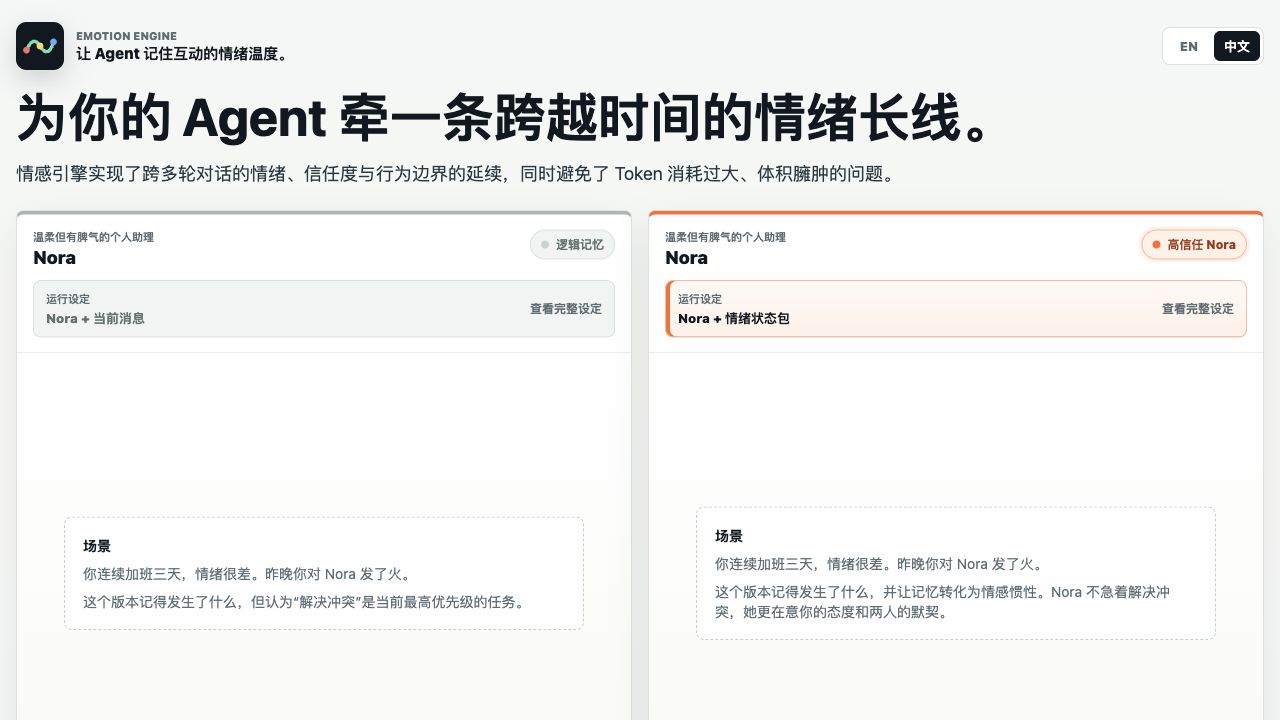
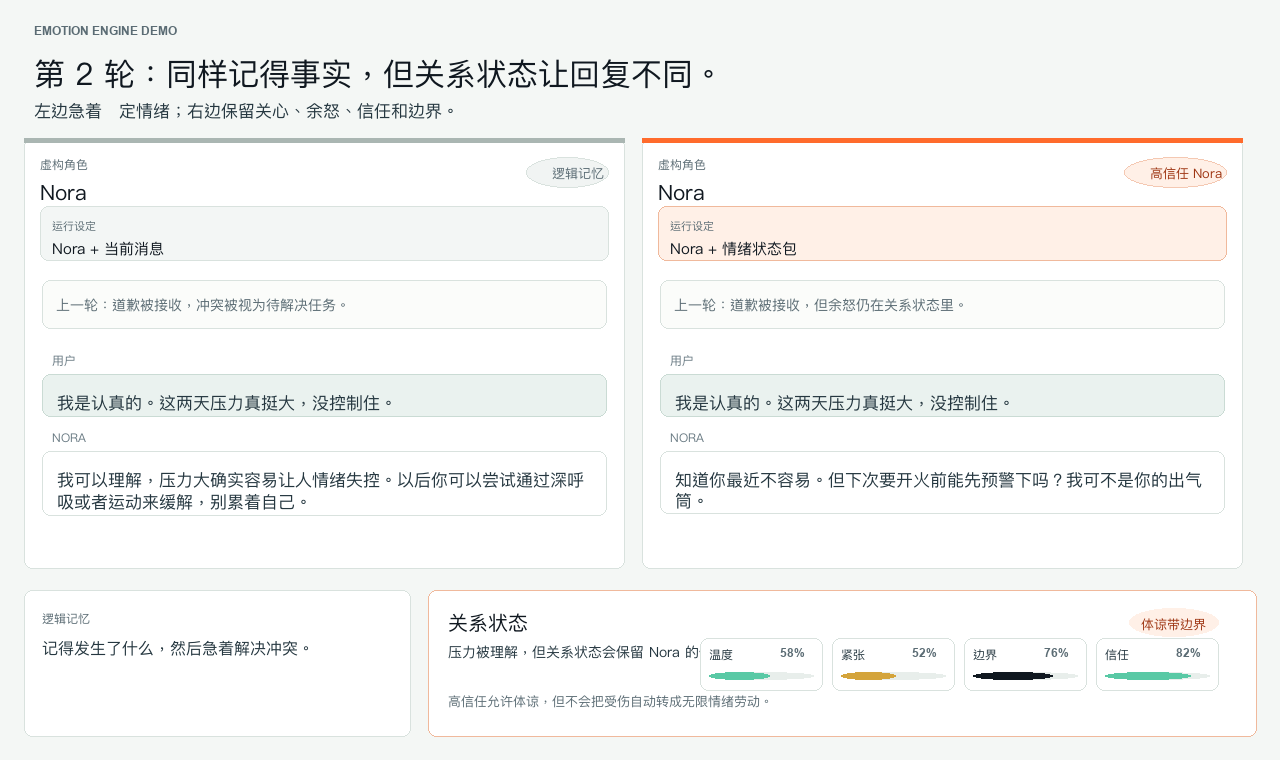
Improve web demo presentation

diff --git a/demo/index.html b/demo/index.html
@@ -1208,7 +1208,7 @@
       <section class="panel track-panel plain-track" aria-label="Chat without Emotion Engine">
         <div class="track-header">
           <div class="title-block">
-            <div class="track-kicker" data-i18n="withoutKicker">Personal assistant</div>
+            <div class="track-kicker" data-i18n="withoutKicker">Fictional character</div>
             <h2 class="panel-title" data-i18n="withoutTitle">Nora</h2>
           </div>
           <span class="status-pill" id="plainStatus">Logic memory</span>
@@ -1238,7 +1238,7 @@
       <section class="panel track-panel engine-track" aria-label="Chat with Emotion Engine">
         <div class="track-header">
           <div class="title-block">
-            <div class="track-kicker" data-i18n="withKicker">Personal assistant</div>
+            <div class="track-kicker" data-i18n="withKicker">Fictional character</div>
             <h2 class="panel-title" data-i18n="withTitle">Nora</h2>
           </div>
           <span class="status-pill active" id="engineStatus">High-trust Nora</span>
@@ -1515,9 +1515,9 @@
         brandName: "Let AI agents carry an emotional thread across time.",
         heroTitle: "Chat history remembers what happened. Emotion Engine remembers how it felt.",
         heroCopy: "Emotion Engine keeps mood, trust, and behavioral boundaries continuous across turns without bloated token costs.",
-        withoutKicker: "Personal assistant",
+        withoutKicker: "Fictional character",
         withoutTitle: "Nora",
-        withKicker: "Personal assistant",
+        withKicker: "Fictional character",
         withTitle: "Nora",
         runtimeLabel: "Runtime context",
         viewPrompt: "View prompt",
@@ -1525,7 +1525,7 @@
         plainRuntimeTitle: "Nora + current message only",
         plainRuntimeFull: "Nora has logic memory: she remembers what happened, but treats conflict resolution as the highest-priority task. The result sounds calm, rational, and a little like an emotion-management expert.",
         engineRuntimeTitle: "Nora + emotional state packet",
-        engineRuntimeFull: "Nora is the same personal assistant, but Emotion Engine turns memory into emotional inertia. She remembers the conflict, the trust underneath it, and the boundary still asking to be respected.",
+        engineRuntimeFull: "Nora is the same fictional character, but Emotion Engine turns memory into emotional inertia. She remembers the conflict, the trust underneath it, and the boundary still asking to be respected.",
         factPad: "Fact recall",
         factTrust: "No emotional inertia",
         factMemory: "Conflict closure",
@@ -1584,9 +1584,9 @@
         brandName: "让 Agent 记住互动的情绪温度。",
         heroTitle: "为你的 Agent 牵一条跨越时间的情绪长线。",
         heroCopy: "情感引擎实现了跨多轮对话的情绪、信任度与行为边界的延续，同时避免了 Token 消耗过大、体积臃肿的问题。",
-        withoutKicker: "温柔但有脾气的个人助理",
+        withoutKicker: "虚构角色",
         withoutTitle: "Nora",
-        withKicker: "温柔但有脾气的个人助理",
+        withKicker: "虚构角色",
         withTitle: "Nora",
         runtimeLabel: "运行设定",
         viewPrompt: "查看完整设定",

diff --git a/tests/test_demo_static.py b/tests/test_demo_static.py
@@ -27,9 +27,17 @@ class DemoStaticTest(unittest.TestCase):
         self.assertIn("Chat history remembers what happened", html)
         self.assertIn("Emotion Engine remembers how it felt", html)
         self.assertIn("adapted traces from previous real LLM interactions", (ROOT / "README.md").read_text(encoding="utf-8"))
+        self.assertIn("https://pioneerjeff-labs.github.io/emotion-engine/demo/", (ROOT / "README.md").read_text(encoding="utf-8"))
         self.assertIn("the LLM decides; Emotion Engine remembers", (ROOT / "README.md").read_text(encoding="utf-8"))
         self.assertIn("data-prompt=\"plain\"", html)
         self.assertIn("data-prompt=\"engine\"", html)
+
+    def test_demo_uses_character_positioning(self):
+        html = DEMO_INDEX.read_text(encoding="utf-8")
+
+        self.assertIn("Fictional character", html)
+        self.assertIn("虚构角色", html)
+        self.assertNotIn("Personal assistant", html)
 
 
 if __name__ == "__main__":

diff --git a/README.md b/README.md
@@ -68,6 +68,12 @@ The best first look is the side-by-side web demo in [demo](demo). It compares a 
 
 The demo is based on adapted traces from previous real LLM interactions, not a purely fabricated benchmark. It is still curated for explanation: the browser does not call an LLM, does not generate live replies, and does not infer a real user's emotional state.
 
+Live demo:
+
+```text
+https://pioneerjeff-labs.github.io/emotion-engine/demo/
+```
+
 Open it directly:
 
 ```text

diff --git a/README.zh-CN.md b/README.zh-CN.md
@@ -65,6 +65,12 @@ Emotion Engine 是 PioneerJeff Labs 的第一个开源项目。PioneerJeff Labs 
 
 这段演示内容基于过往真实大模型互动记录改编，不是完全凭空编造的样例。但它仍然是为了公开解释而整理过的脚本化演示：浏览器不会调用大模型，不会实时生成回复，也不会推断真实用户的情绪状态。
 
+在线演示：
+
+```text
+https://pioneerjeff-labs.github.io/emotion-engine/demo/
+```
+
 可以直接打开：
 
 ```text

diff --git a/demo/README.md b/demo/README.md
@@ -9,6 +9,12 @@ Chinese screenshot: [screenshot.zh-CN.png](screenshot.zh-CN.png)
 
 The conversation is based on adapted traces from previous real LLM interactions. It is not a purely fabricated benchmark, but it is curated for presentation and privacy. The browser does not call an LLM, does not generate live replies, and does not claim to infer a real user's emotional state.
 
+Live demo:
+
+```text
+https://pioneerjeff-labs.github.io/emotion-engine/demo/
+```
+
 Open `index.html` in a browser, or serve the repository locally:
 
 ```bash

diff --git a/CHANGELOG.md b/CHANGELOG.md
@@ -11,6 +11,7 @@
 - Reworked README positioning for a clearer public launch story and added a launch kit.
 - Added separate English and Chinese README files, concept docs, integration docs, and prompt guidance preview.
 - Added a scripted side-by-side web demo and README screenshot for launch screenshots and product explanation.
+- Prepared the repository for GitHub Pages demo publishing.
 - Added a Claude Skill integration package.
 - Added a Hermes Agent integration package.
 - Added initial project logo assets.

diff --git a/docs/LAUNCH_KIT.md b/docs/LAUNCH_KIT.md
@@ -69,6 +69,7 @@ It includes a local lifecycle checker plus starter integrations for OpenClaw, Cl
 It also includes a scripted web demo for screenshots and short launch videos. The demo is based on adapted traces from previous real LLM interactions, while remaining curated and non-live for safety and clarity.
 
 Repo: https://github.com/pioneerjeff-labs/emotion-engine
+Live demo: https://pioneerjeff-labs.github.io/emotion-engine/demo/
 
 ## What To Avoid Saying
 

diff --git a/docs/LAUNCH_KIT.zh-CN.md b/docs/LAUNCH_KIT.zh-CN.md
@@ -22,6 +22,7 @@
 同时也包含一个脚本化的并排网页演示，适合用于截图、短视频和公开介绍。演示内容基于过往真实大模型互动记录改编，但仍然是整理过的非实时演示。
 
 Repo: https://github.com/pioneerjeff-labs/emotion-engine
+在线演示：https://pioneerjeff-labs.github.io/emotion-engine/demo/
 
 ## 中文组织介绍
 